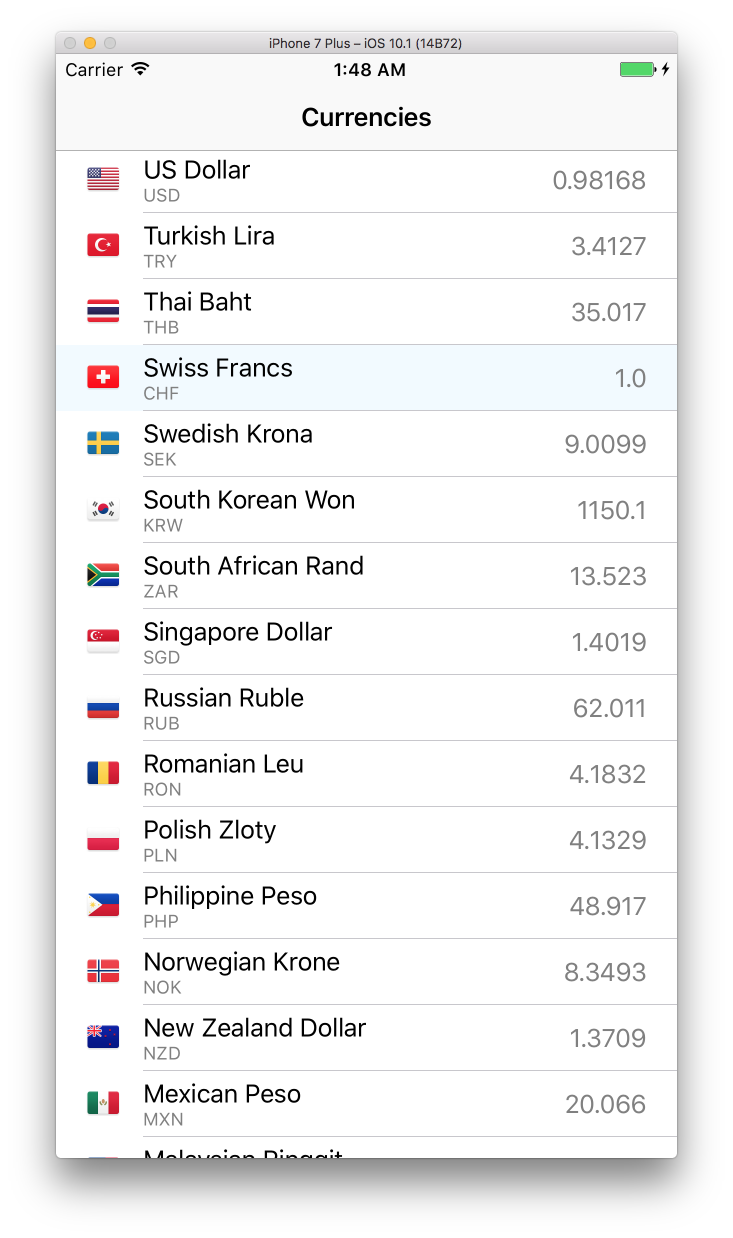
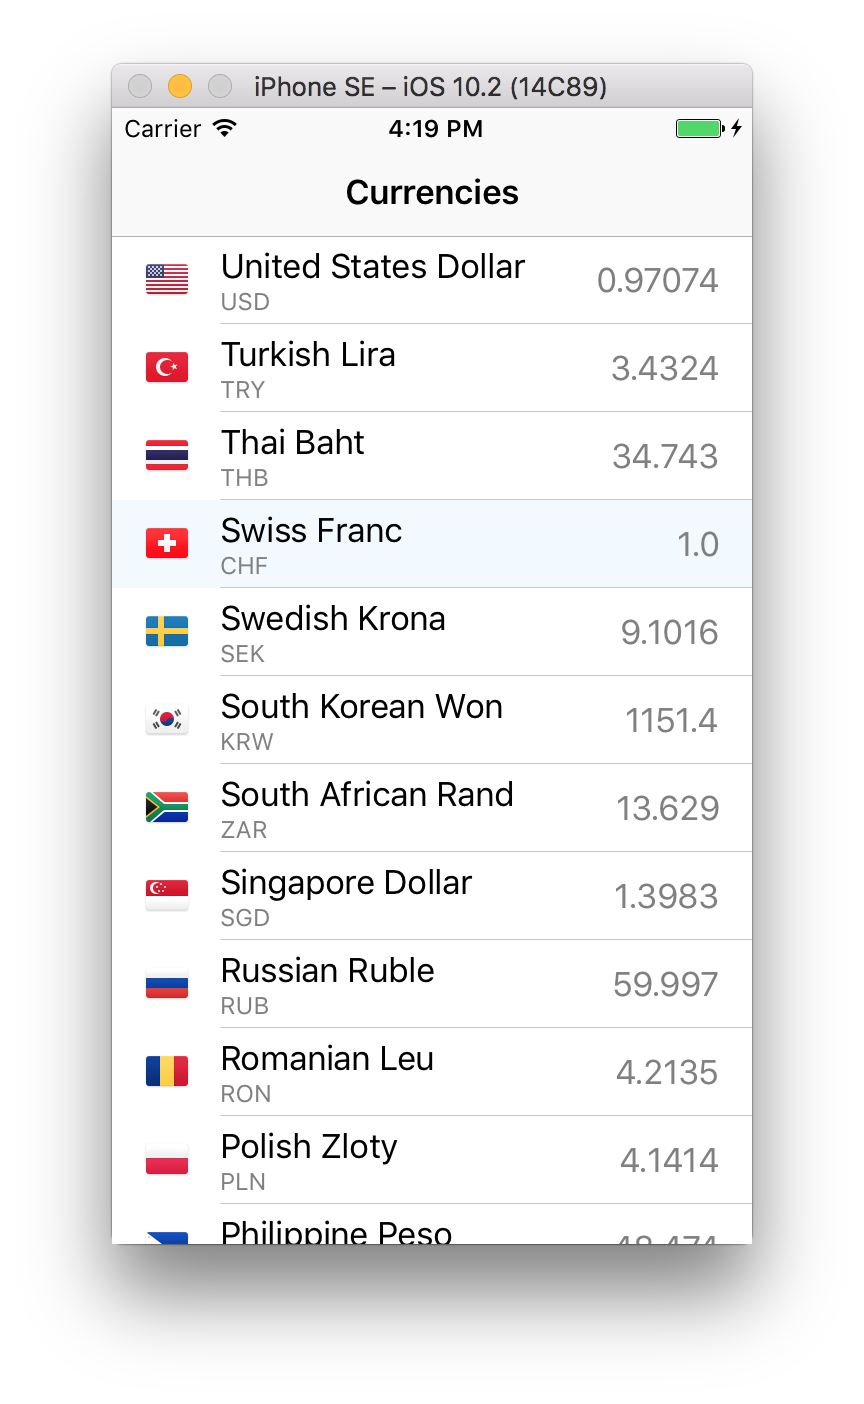
Use openexcahngerates.org for the currency name mapping

Changed region(s): [[0.03, 0.0, 0.9604, 0.9822]]

diff --git a/Currencies/Service.swift b/Currencies/Service.swift
@@ -20,13 +20,13 @@ class Service: NSObject {
         self.baseURL = baseURL
     }
     
-    func loadNames() -> Promise<[String: [String: Any]]>{
+    func loadNames() -> Promise<[String: String]>{
         return Promise { fullfill, reject in
             manager.request(Config.currencyNamesURL).responseJSON(){ (response) in
                 switch response.result{
                 case .success(let value):
                     
-                    if let dict = value as? [String: [String: Any]]{
+                    if let dict = value as? [String: String]{
                         fullfill(dict)
                     } else {
                         reject(NSError(domain: "Could not parse", code: 999, userInfo: nil))
@@ -65,14 +65,14 @@ class Service: NSObject {
 
 extension Currency{
     
-    static func mapFromJSON(json: [String: NSNumber], names: [String: [String: Any]], context: NSManagedObjectContext) -> [Currency]{
+    static func mapFromJSON(json: [String: NSNumber], names: [String: String], context: NSManagedObjectContext) -> [Currency]{
         
         var result = [Currency]()
         for (key, value) in json {
             let c = Currency(context: context)
             c.code = key
             c.rate = value.floatValue
-            c.title = names[c.code!]?["name"] as? String
+            c.title = names[c.code!]
             result.append(c)
         }
         return result

diff --git a/Currencies/Config.swift b/Currencies/Config.swift
@@ -13,6 +13,6 @@ struct Config{
     static let baseCurrency = "CHF"
     static let serviceURL = "https://api.fixer.io/latest?base=\(baseCurrency)"
 
-    static let currencyNamesURL = "https://gist.githubusercontent.com/Fluidbyte/2973986/raw/b0d1722b04b0a737aade2ce6e055263625a0b435/Common-Currency.json"
+    static let currencyNamesURL = "https://openexchangerates.org/api/currencies.json"
     static let highlightColor =  UIColor(hue: 0.56, saturation: 0.05, brightness: 1, alpha: 1)
 }

diff --git a/Currencies/MasterViewController.swift b/Currencies/MasterViewController.swift
@@ -38,7 +38,7 @@ class MasterViewController: UITableViewController, NSFetchedResultsControllerDel
         let context = self.fetchedResultsController.managedObjectContext
         let currency = Currency(context: context)
         currency.code = "CHF"
-        currency.title = "Swiss Francs"
+        currency.title = "Swiss Franc"
         currency.rate = 1.0
         
         do {
